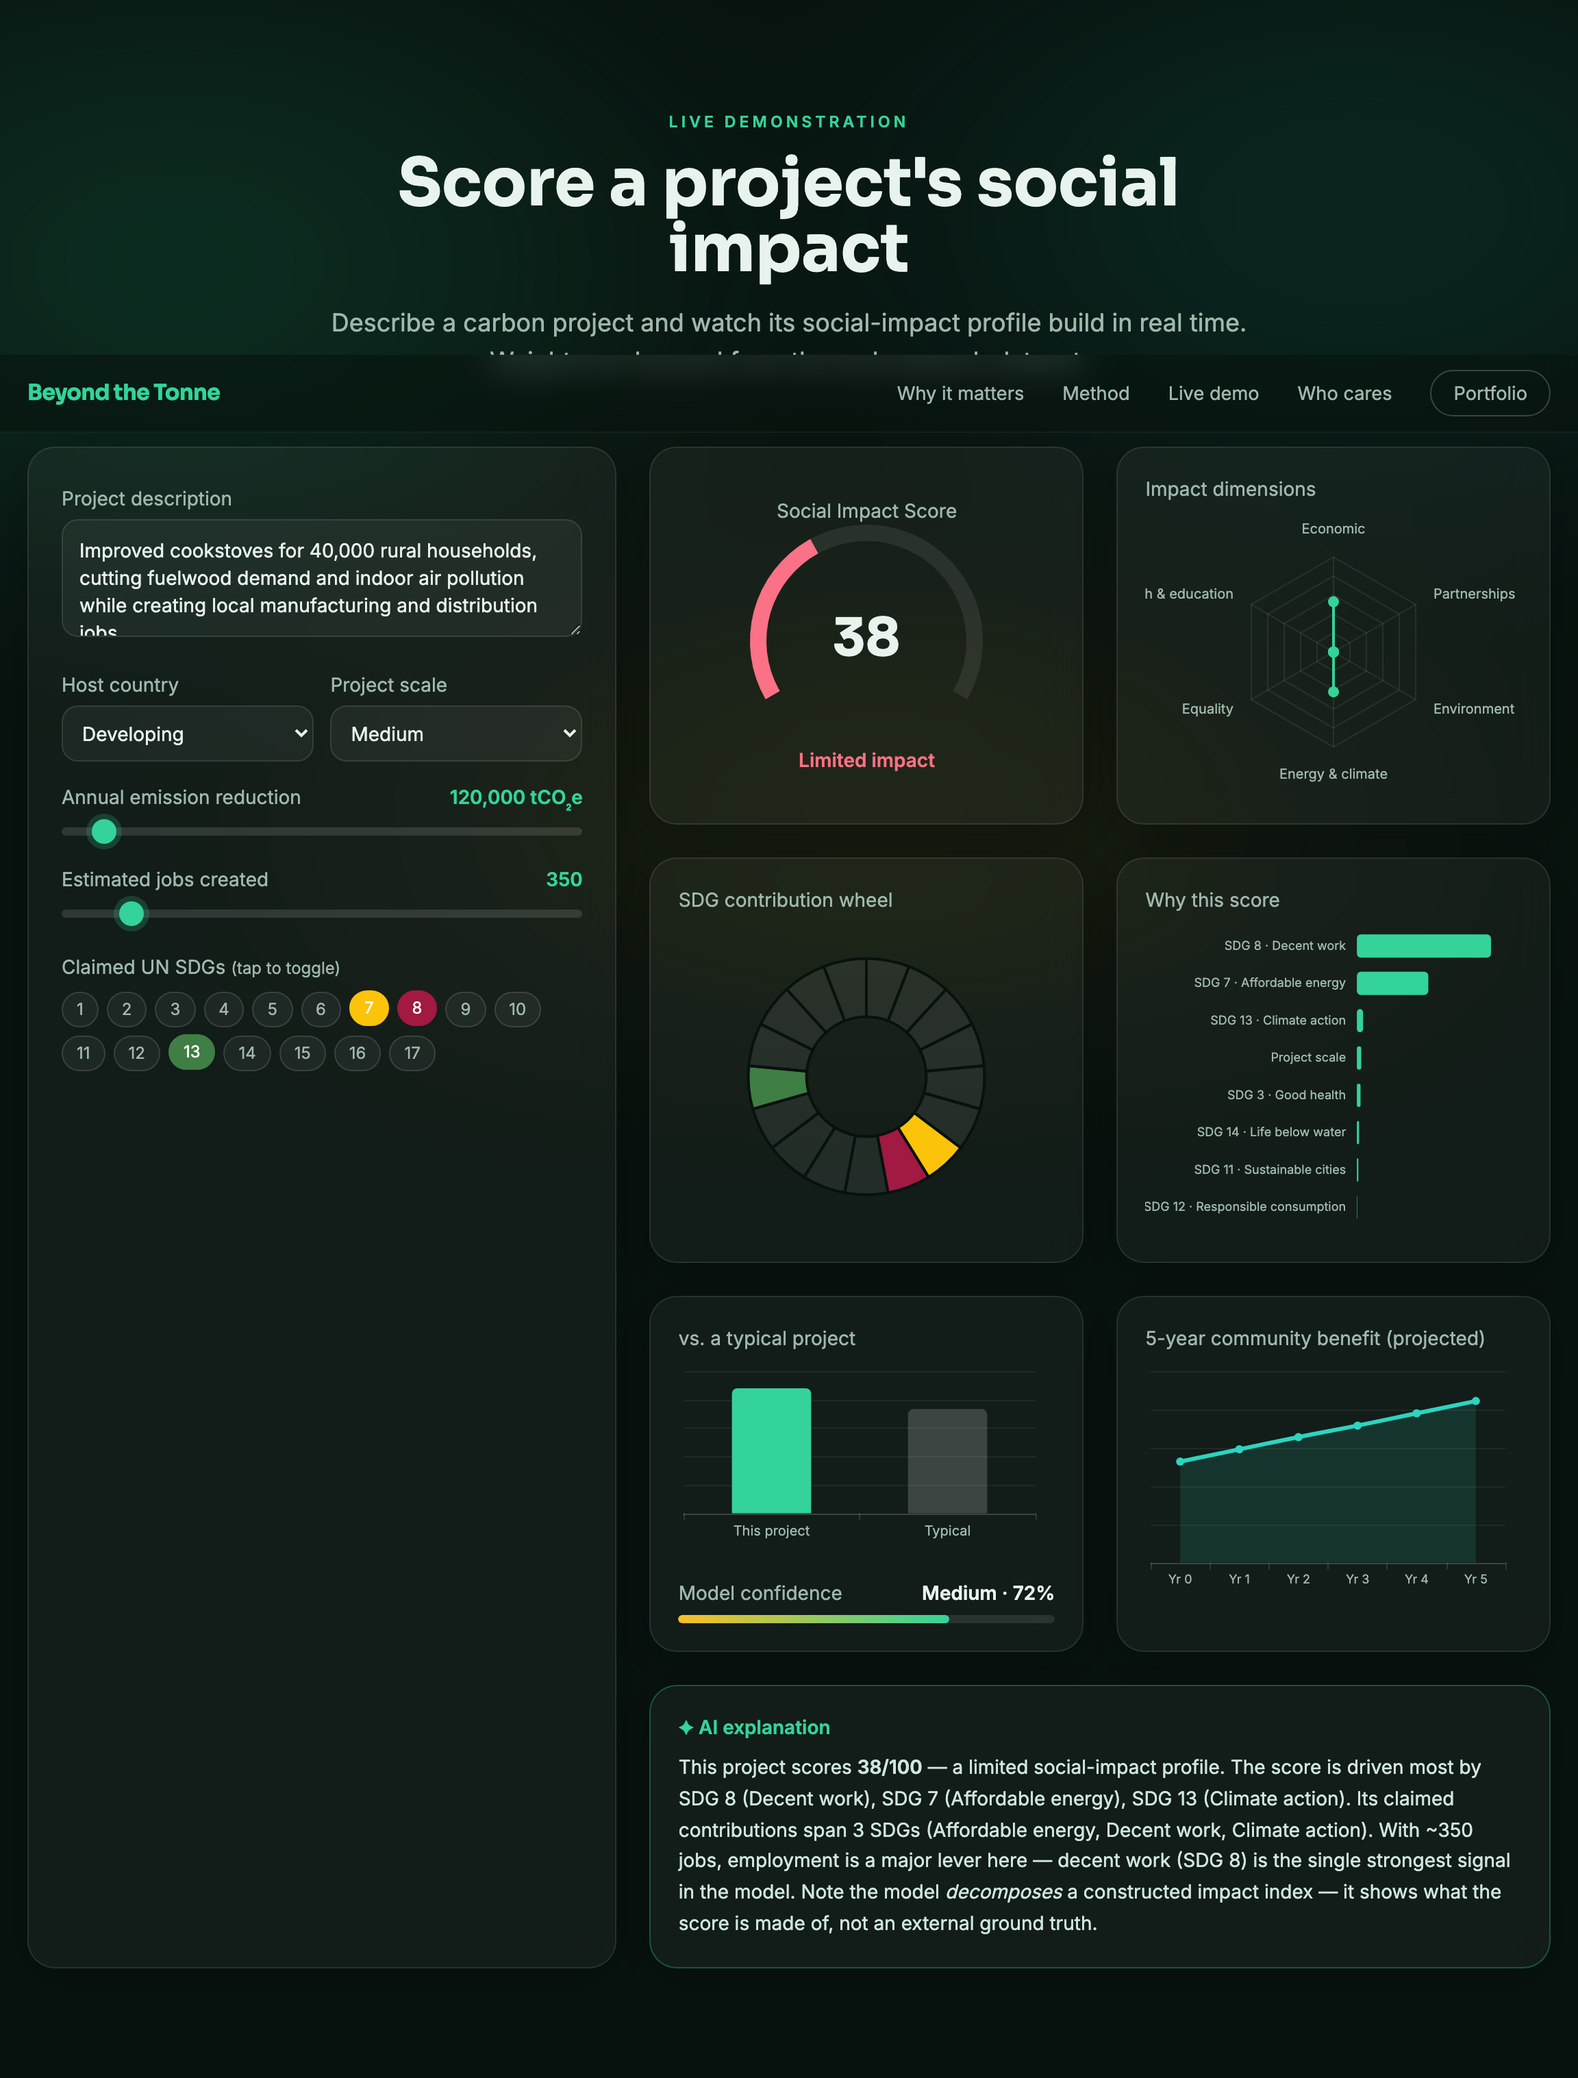
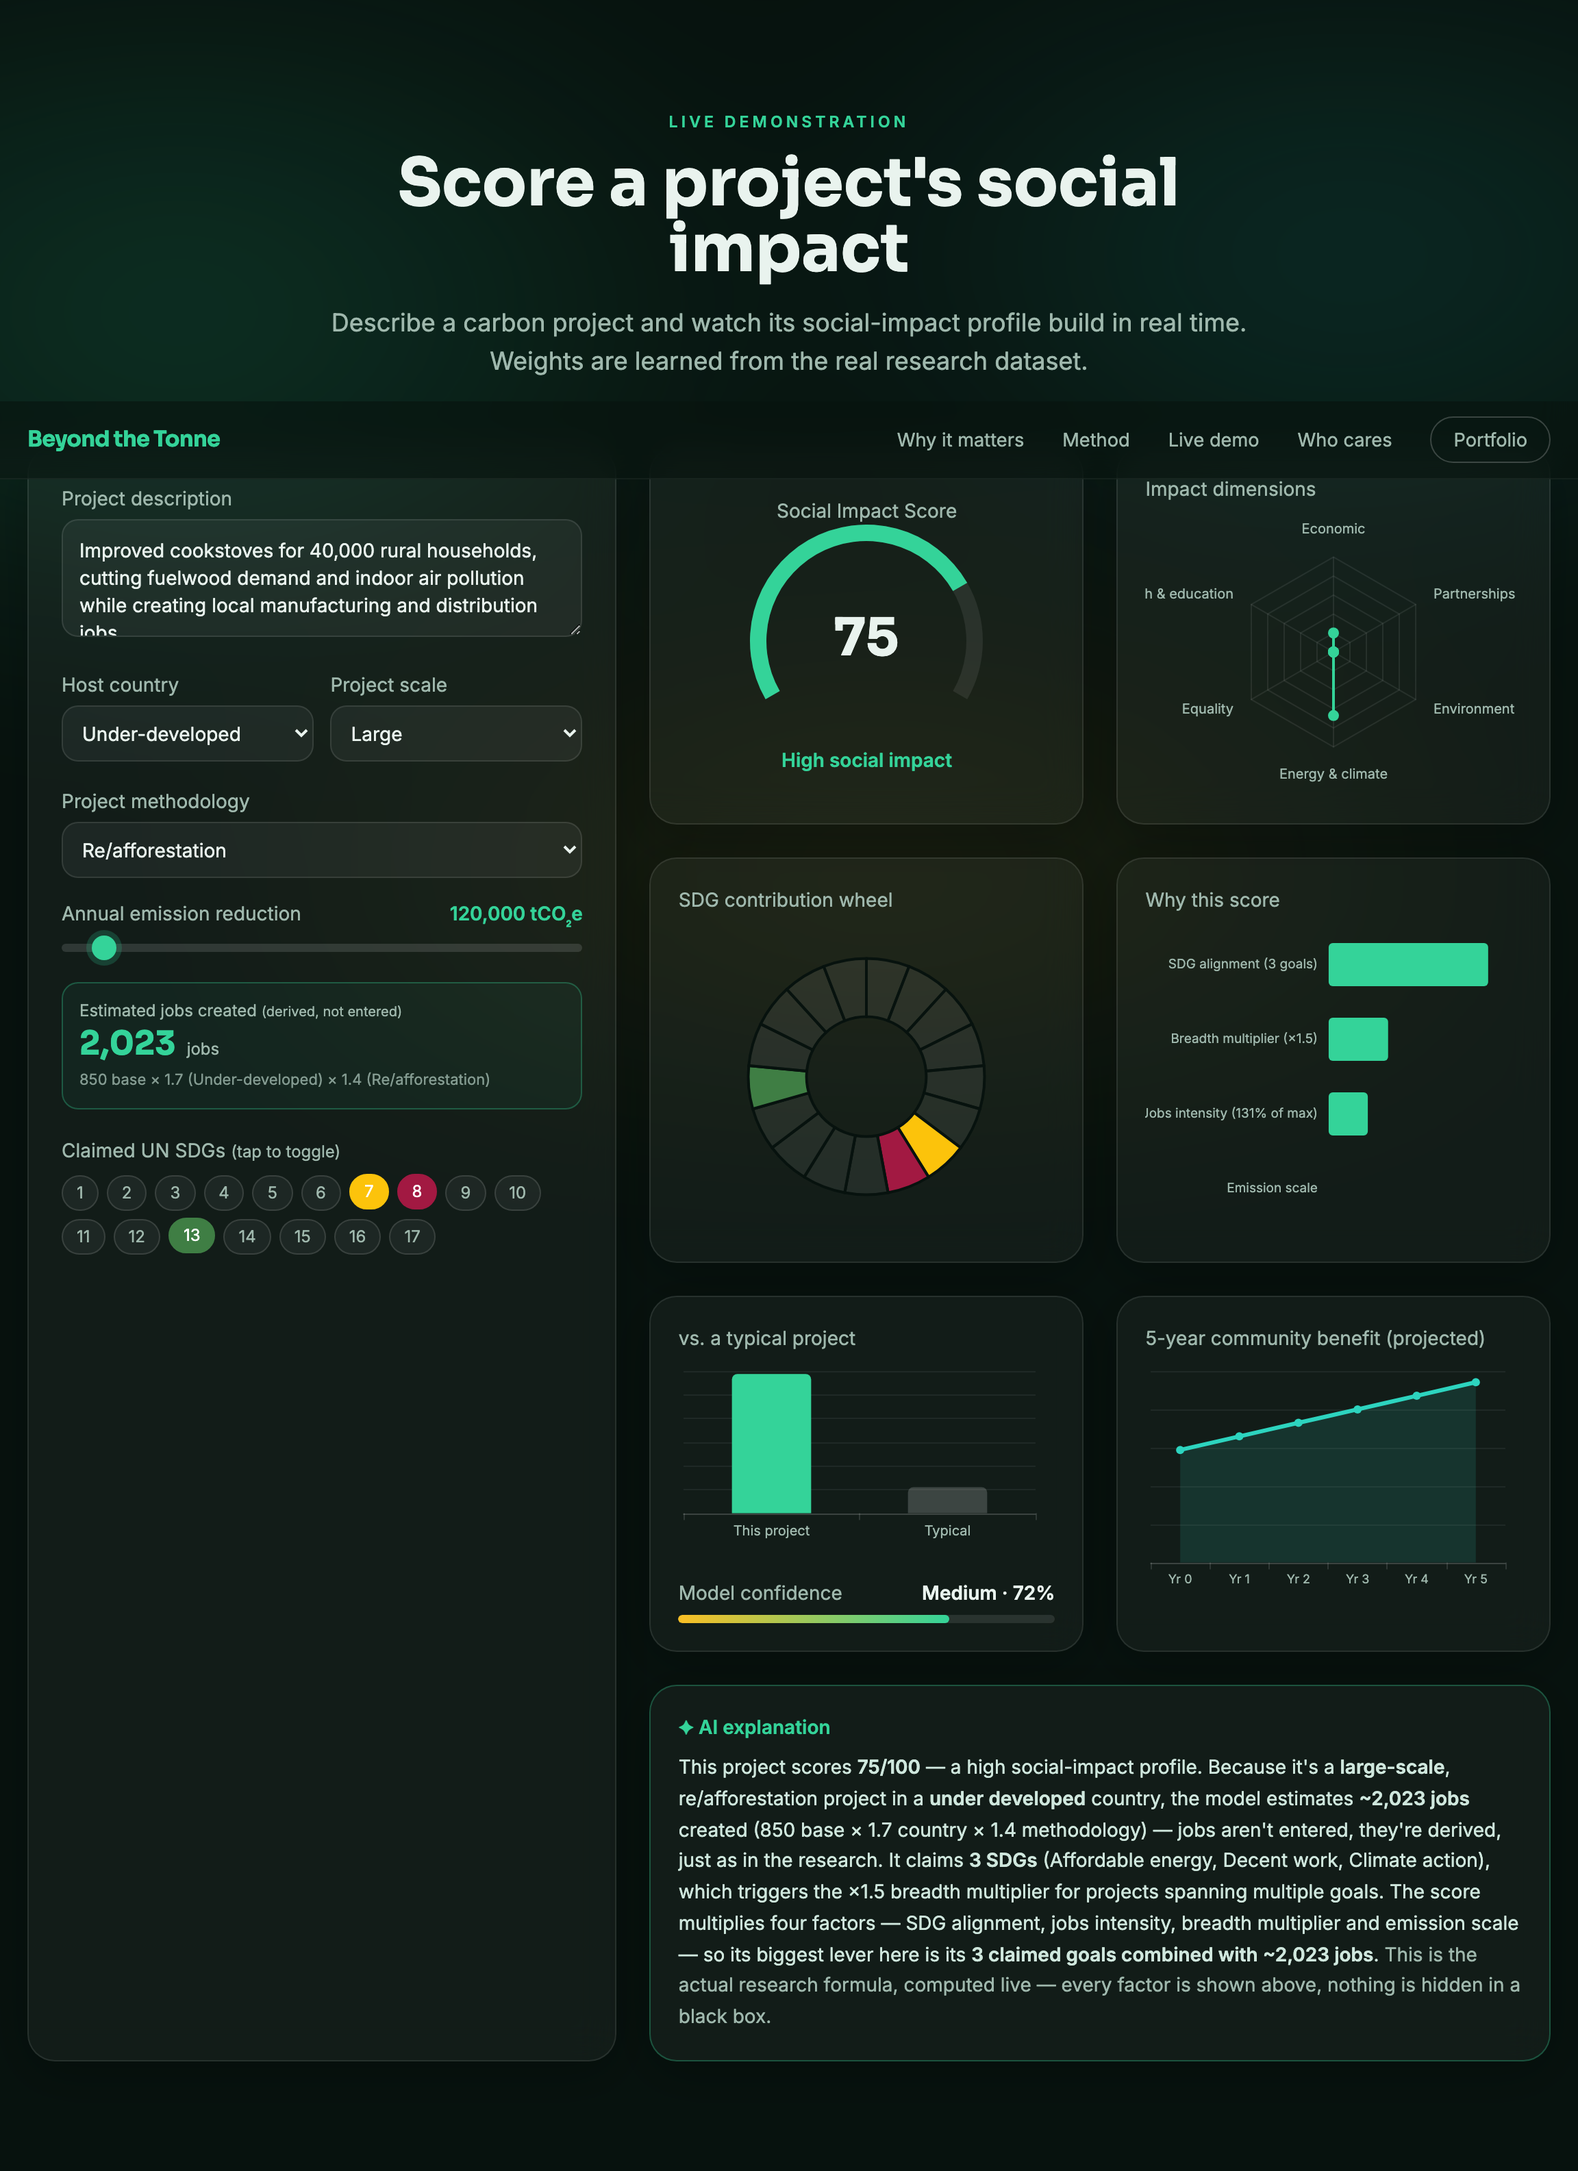
Derive job count from project attributes (faithful to the research)
Job count is now estimated by the system (base-by-scale x country factor x
methodology factor) rather than entered, and the score runs the actual
Social Impact formula from the research instead of an ML surrogate.

diff --git a/app.js b/app.js
@@ -1,22 +1,16 @@
 /* Beyond the Tonne — client-side social-impact engine.
-   Scoring weights are a Ridge model fit on the real research dataset of 161
-   carbon-credit projects (log-transformed Social-Impact index), exported to JS
-   so the demo runs entirely in the browser. */
+   This is the ACTUAL formula from the research (it reproduces the dataset's
+   Social-Impact index exactly). Job count is DERIVED from project scale, host
+   country and methodology — exactly as in the original work — not entered. */
 
-const SCORING = {
-  intercept: 0.4189,
-  w: { SDG_1:0.0958,SDG_2:0.0506,SDG_3:-0.0287,SDG_4:0.0721,SDG_5:0.0219,SDG_6:0.0511,
-       SDG_7:0.0763,SDG_8:0.1583,SDG_9:0.0027,SDG_10:0.0031,SDG_11:-0.0354,SDG_12:-0.0103,
-       SDG_13:0.0511,SDG_14:-0.0498,SDG_15:0.0399,SDG_16:0.0219,SDG_17:0.1301,
-       dev:-0.0065,scl:0.0827,logER:-0.1131,jobs:0.2832 },
-  mean: { SDG_1:0.0559,SDG_2:0.0311,SDG_3:0.0994,SDG_4:0.0497,SDG_5:0.0248,SDG_6:0.0311,
-          SDG_7:0.1304,SDG_8:0.1553,SDG_9:0.0186,SDG_10:0.0311,SDG_11:0.0124,SDG_12:0.0186,
-          SDG_13:0.9006,SDG_14:0.0124,SDG_15:0.087,SDG_16:0.0248,SDG_17:0.0248,
-          dev:1.512,scl:2.857,logER:11.517,jobs:513.5 },
-  std: { SDG_1:0.230,SDG_2:0.174,SDG_3:0.300,SDG_4:0.218,SDG_5:0.156,SDG_6:0.174,SDG_7:0.338,
-         SDG_8:0.363,SDG_9:0.136,SDG_10:0.174,SDG_11:0.111,SDG_12:0.136,SDG_13:0.300,SDG_14:0.111,
-         SDG_15:0.283,SDG_16:0.156,SDG_17:0.156,dev:0.696,scl:1.004,logER:2.011,jobs:593.5 }
-};
+// derived job count = base(scale) × country factor × methodology factor
+const JOB_BASE = { "Micro Scale":5, "Small Scale":30, "Medium Scale":125, "Large Scale":850 };
+const COUNTRY_FACTOR = { "Under Developed":1.7, "Developing":1.4, "Developed":1.0, "High Developed":0.7 };
+const METHOD_FACTOR = { "Renewables":1.2, "Energy efficiency":1.0, "Community-based":1.3,
+  "Re/afforestation":1.4, "REDD+":1.1, "IFM":1.1, "HIR":1.0, "Landfill gas capture":0.9,
+  "Savanna burning":1.2, "Avoided deforestation":1.1 };
+const JOBS_MAX = 1547;          // dataset max, used to normalise jobs (CI)
+const SI_SCALE = Math.log1p(12); // maps Social-Impact → 0..100
 
 const SDG = [
  [1,"No poverty","#E5243B"],[2,"Zero hunger","#DDA63A"],[3,"Good health","#4C9F38"],
@@ -61,17 +55,21 @@ function paintChips(){
   });
 }
 
-// ---- scoring ----
-function z(k,x){ return (x-SCORING.mean[k])/SCORING.std[k]; }
+// ---- scoring (the research's actual formula) ----
 function compute(){
-  const dev=+devEl.value, scl=+sclEl.value, er=+erEl.value, jobs=+jobsEl.value;
-  const logER=Math.log1p(er);
-  let lp=SCORING.intercept, contrib={};
-  for(let i=1;i<=17;i++){ const k="SDG_"+i, v=selected.has(i)?1:0, c=SCORING.w[k]*z(k,v); lp+=c; contrib[k]=c; }
-  [["dev",dev],["scl",scl],["logER",logER],["jobs",jobs]].forEach(([k,v])=>{ const c=SCORING.w[k]*z(k,v); lp+=c; contrib[k]=c; });
-  const impact=Math.max(0,Math.expm1(lp));
-  const score=Math.min(100,Math.round(100*Math.log1p(impact)/Math.log1p(8)));
-  return {impact,score,contrib,dev,scl,er,jobs};
+  const scale=sclEl.value, country=devEl.value, method=methodEl.value, er=+erEl.value;
+  // derived job count
+  const base=JOB_BASE[scale], cf=COUNTRY_FACTOR[country], mf=METHOD_FACTOR[method];
+  const jobs=Math.round(base*cf*mf);
+  // formula terms
+  const SDGA=selected.size;                                   // SDG Alignment Score
+  const CI=jobs/JOBS_MAX;                                     // jobs intensity (normalised)
+  const ME=SDGA>1?1.5:(SDGA===1?1:0);                         // multiplier effect
+  const erTerm=1-1/Math.max(er,1.0001);                       // emission-scale factor (→1 when large)
+  const impact=Math.max(0, erTerm*SDGA*CI*ME);
+  const score=Math.min(100,Math.round(100*Math.log1p(impact)/SI_SCALE));
+  return {impact,score,jobs,base,cf,mf,SDGA,CI,ME,erTerm,scale,country,method,er,
+    terms:{ "SDG alignment":SDGA, "Jobs intensity":CI, "Multiplier (breadth)":ME, "Emission scale":erTerm }};
 }
 
 // ---- charts ----
@@ -102,8 +100,8 @@ function render(){
 
   // radar
   const dimVals=Object.entries(DIMS).map(([d,gs])=>{
-    let s=0; gs.forEach(g=>{ if(selected.has(g)) s+=Math.max(0,SCORING.w["SDG_"+g]); });
-    return Math.min(100, Math.round(s/0.30*100));
+    const hit=gs.filter(g=>selected.has(g)).length;
+    return Math.round(100*hit/gs.length);
   });
   radar.setOption({...dark,radar:{indicator:Object.keys(DIMS).map(d=>({name:d,max:100})),
     radius:"66%",axisName:{color:"#9fb8ad",fontSize:10},splitLine:{lineStyle:{color:"rgba(255,255,255,.08)"}},
@@ -118,15 +116,19 @@ function render(){
     ,emphasis:{scale:true}}],
     tooltip:{trigger:"item",formatter:p=>p.name}});
 
-  // why bars (top contributions, log space)
-  const labelMap={dev:"Host country",scl:"Project scale",logER:"Emission scale",jobs:"Jobs created"};
-  let items=Object.entries(r.contrib).map(([k,v])=>[k.startsWith("SDG")?("SDG "+k.split("_")[1]+" · "+SDG_NAME[+k.split("_")[1]]):labelMap[k],v]);
-  items=items.filter(i=>Math.abs(i[1])>0.001).sort((a,b)=>a[1]-b[1]); // asc for horizontal
-  items=items.slice(-8);
+  // why bars — the score is a product, so each factor's log-contribution shows
+  // how much it multiplies the result up (green) or drags it down (red)
+  const L=x=>Math.log(Math.max(x,1e-6));
+  let items=[
+    ["SDG alignment ("+r.SDGA+" goals)", L(Math.max(r.SDGA,1e-6))],
+    ["Jobs intensity ("+(r.CI*100).toFixed(0)+"% of max)", L(r.CI)],
+    ["Breadth multiplier (×"+r.ME+")", L(Math.max(r.ME,1e-6))],
+    ["Emission scale", L(r.erTerm)]
+  ].sort((a,b)=>a[1]-b[1]);
   whyB.setOption({...dark,grid:{left:4,right:14,top:6,bottom:6,containLabel:true},
     xAxis:{type:"value",axisLabel:{show:false},splitLine:{show:false},axisLine:{show:false}},
-    yAxis:{type:"category",data:items.map(i=>i[0]),axisLabel:{color:"#9fb8ad",fontSize:9},axisLine:{show:false},axisTick:{show:false}},
-    series:[{type:"bar",data:items.map(i=>({value:+i[1].toFixed(3),itemStyle:{color:i[1]>=0?"#34d399":"#fb7185",borderRadius:3}})),barWidth:"62%"}]});
+    yAxis:{type:"category",data:items.map(i=>i[0]),axisLabel:{color:"#9fb8ad",fontSize:9.5},axisLine:{show:false},axisTick:{show:false}},
+    series:[{type:"bar",data:items.map(i=>({value:+i[1].toFixed(2),itemStyle:{color:i[1]>=0?"#34d399":"#fb7185",borderRadius:3}})),barWidth:"58%"}]});
 
   // baseline vs typical
   base.setOption({...dark,grid:{left:4,right:14,top:10,bottom:18,containLabel:true},
@@ -154,18 +156,19 @@ function render(){
 }
 
 function explain(r){
-  const labelMap={dev:"the host country's development level",scl:"the project's scale",logER:"its emission-reduction profile",jobs:"the jobs it creates"};
-  const pos=Object.entries(r.contrib).filter(([k,v])=>v>0.01)
-    .sort((a,b)=>b[1]-a[1]).slice(0,3)
-    .map(([k])=>k.startsWith("SDG")?("SDG "+k.split("_")[1]+" ("+SDG_NAME[+k.split("_")[1]]+")"):labelMap[k]);
   const band=r.score>=66?"a high":r.score>=40?"a moderate":"a limited";
   const sdgList=[...selected].sort((a,b)=>a-b).map(n=>SDG_NAME[n]);
   let txt=`This project scores <b>${r.score}/100</b> — ${band} social-impact profile. `;
-  txt+= pos.length?`The score is driven most by ${pos.join(", ")}. `:`No strong positive drivers are present yet — claiming the SDGs the project genuinely supports would raise the score. `;
-  txt+= sdgList.length?`Its claimed contributions span ${sdgList.length} SDG${sdgList.length>1?"s":""} (${sdgList.slice(0,5).join(", ")}${sdgList.length>5?"…":""}). `:"";
-  txt+= r.jobs>=300?`With ~${r.jobs.toLocaleString()} jobs, employment is a major lever here — decent work (SDG 8) is the single strongest signal in the model. `
-       : `Job creation is modest; in this dataset employment is the strongest driver of social impact, so it's where this project could grow most. `;
-  txt+= `Note the model <i>decomposes</i> a constructed impact index — it shows what the score is made of, not an external ground truth.`;
+  txt+= `Because it's a <b>${r.scale.replace(' Scale','').toLowerCase()}-scale</b>, ${r.method.toLowerCase()} project in a `
+     +  `<b>${r.country.toLowerCase()}</b> country, the model estimates <b>~${r.jobs.toLocaleString()} jobs</b> created `
+     +  `(${r.base} base × ${r.cf} country × ${r.mf} methodology) — jobs aren't entered, they're derived, just as in the research. `;
+  if(r.SDGA===0) txt+=`No SDGs are claimed yet, so the multiplier collapses the score to zero — claiming the goals the project genuinely supports is what lifts it. `;
+  else txt+=`It claims <b>${r.SDGA} SDG${r.SDGA>1?"s":""}</b> (${sdgList.slice(0,5).join(", ")}${sdgList.length>5?"…":""})`
+     +  (r.SDGA>1?`, which triggers the ×1.5 breadth multiplier for projects spanning multiple goals. `:` — a single goal, so no breadth multiplier yet. `);
+  txt+= `The score multiplies four factors — SDG alignment, jobs intensity, breadth multiplier and emission scale — so its biggest lever here is `
+     +  (r.CI<0.25?`<b>jobs intensity</b> (only ${(r.CI*100).toFixed(0)}% of the dataset maximum): a larger scale or more labour-intensive methodology would raise it most. `
+                  :`its <b>${r.SDGA} claimed goals combined with ~${r.jobs.toLocaleString()} jobs</b>. `);
+  txt+= `<span class="text-mist">This is the actual research formula, computed live — every factor is shown above, nothing is hidden in a black box.</span>`;
   document.getElementById("aiExplain").innerHTML=txt;
 }
 
@@ -178,10 +181,18 @@ function suggestFromDesc(){
 
 // ---- inputs ----
 const devEl=document.getElementById("dev"), sclEl=document.getElementById("scl"),
-      erEl=document.getElementById("er"), jobsEl=document.getElementById("jobs"), descEl=document.getElementById("desc");
-const erVal=document.getElementById("erVal"), jobVal=document.getElementById("jobVal");
-function recompute(){ erVal.textContent=(+erEl.value).toLocaleString()+" tCO₂e"; jobVal.textContent=(+jobsEl.value).toLocaleString(); render(); }
-[devEl,sclEl,erEl,jobsEl].forEach(el=>el.addEventListener("input",recompute));
+      methodEl=document.getElementById("methodSel"), erEl=document.getElementById("er"),
+      descEl=document.getElementById("desc");
+const erVal=document.getElementById("erVal"), jobVal=document.getElementById("jobVal"),
+      jobCalc=document.getElementById("jobCalc");
+function recompute(){
+  erVal.textContent=(+erEl.value).toLocaleString()+" tCO₂e";
+  const base=JOB_BASE[sclEl.value], cf=COUNTRY_FACTOR[devEl.value], mf=METHOD_FACTOR[methodEl.value];
+  jobVal.textContent=Math.round(base*cf*mf).toLocaleString();
+  jobCalc.textContent=`${base} base × ${cf} (${devEl.options[devEl.selectedIndex].text}) × ${mf} (${methodEl.value})`;
+  render();
+}
+[devEl,sclEl,methodEl,erEl].forEach(el=>el.addEventListener("input",recompute));
 descEl.addEventListener("change",suggestFromDesc);
 
 // ---- static content ----

diff --git a/index.html b/index.html
@@ -167,18 +167,29 @@ tailwind.config = { theme: { extend: {
       <div class="grid grid-cols-2 gap-3 mt-4">
         <div><label class="text-sm text-mist">Host country</label>
           <select id="dev" class="w-full mt-1 bg-white/5 border border-white/10 rounded-xl p-2.5 text-sm outline-none focus:border-leaf">
-            <option value="3">Under-developed</option><option value="2" selected>Developing</option>
-            <option value="1">Developed</option><option value="0.5">Highly developed</option></select></div>
+            <option value="Under Developed">Under-developed</option><option value="Developing" selected>Developing</option>
+            <option value="Developed">Developed</option><option value="High Developed">Highly developed</option></select></div>
         <div><label class="text-sm text-mist">Project scale</label>
           <select id="scl" class="w-full mt-1 bg-white/5 border border-white/10 rounded-xl p-2.5 text-sm outline-none focus:border-leaf">
-            <option value="1">Micro</option><option value="2">Small</option>
-            <option value="3" selected>Medium</option><option value="4">Large</option></select></div>
+            <option value="Micro Scale">Micro</option><option value="Small Scale">Small</option>
+            <option value="Medium Scale" selected>Medium</option><option value="Large Scale">Large</option></select></div>
       </div>
+
+      <div class="mt-4"><label class="text-sm text-mist">Project methodology</label>
+        <select id="methodSel" class="w-full mt-1 bg-white/5 border border-white/10 rounded-xl p-2.5 text-sm outline-none focus:border-leaf">
+          <option>Renewables</option><option>Energy efficiency</option><option selected>Community-based</option>
+          <option>Re/afforestation</option><option>REDD+</option><option>IFM</option><option>HIR</option>
+          <option>Landfill gas capture</option><option>Savanna burning</option><option>Avoided deforestation</option></select></div>
 
       <div class="mt-4"><label class="text-sm text-mist flex justify-between"><span>Annual emission reduction</span><span id="erVal" class="text-leaf font-semibold">120,000 tCO₂e</span></label>
         <input id="er" type="range" min="1000" max="2000000" step="1000" value="120000" class="w-full mt-2"></div>
-      <div class="mt-4"><label class="text-sm text-mist flex justify-between"><span>Estimated jobs created</span><span id="jobVal" class="text-leaf font-semibold">350</span></label>
-        <input id="jobs" type="range" min="0" max="3000" step="10" value="350" class="w-full mt-2"></div>
+
+      <div class="mt-4 rounded-xl border border-leaf/30 bg-leaf/5 p-3">
+        <div class="text-xs text-mist">Estimated jobs created <span class="text-[10px]">(derived, not entered)</span></div>
+        <div class="flex items-baseline gap-2"><span id="jobVal" class="display text-2xl font-bold text-leaf">—</span>
+          <span class="text-xs text-mist">jobs</span></div>
+        <div id="jobCalc" class="text-[11px] text-mist/80 mt-0.5"></div>
+      </div>
 
       <label class="text-sm text-mist block mt-5">Claimed UN SDGs <span class="text-xs">(tap to toggle)</span></label>
       <div id="sdgChips" class="flex flex-wrap gap-1.5 mt-2"></div>
